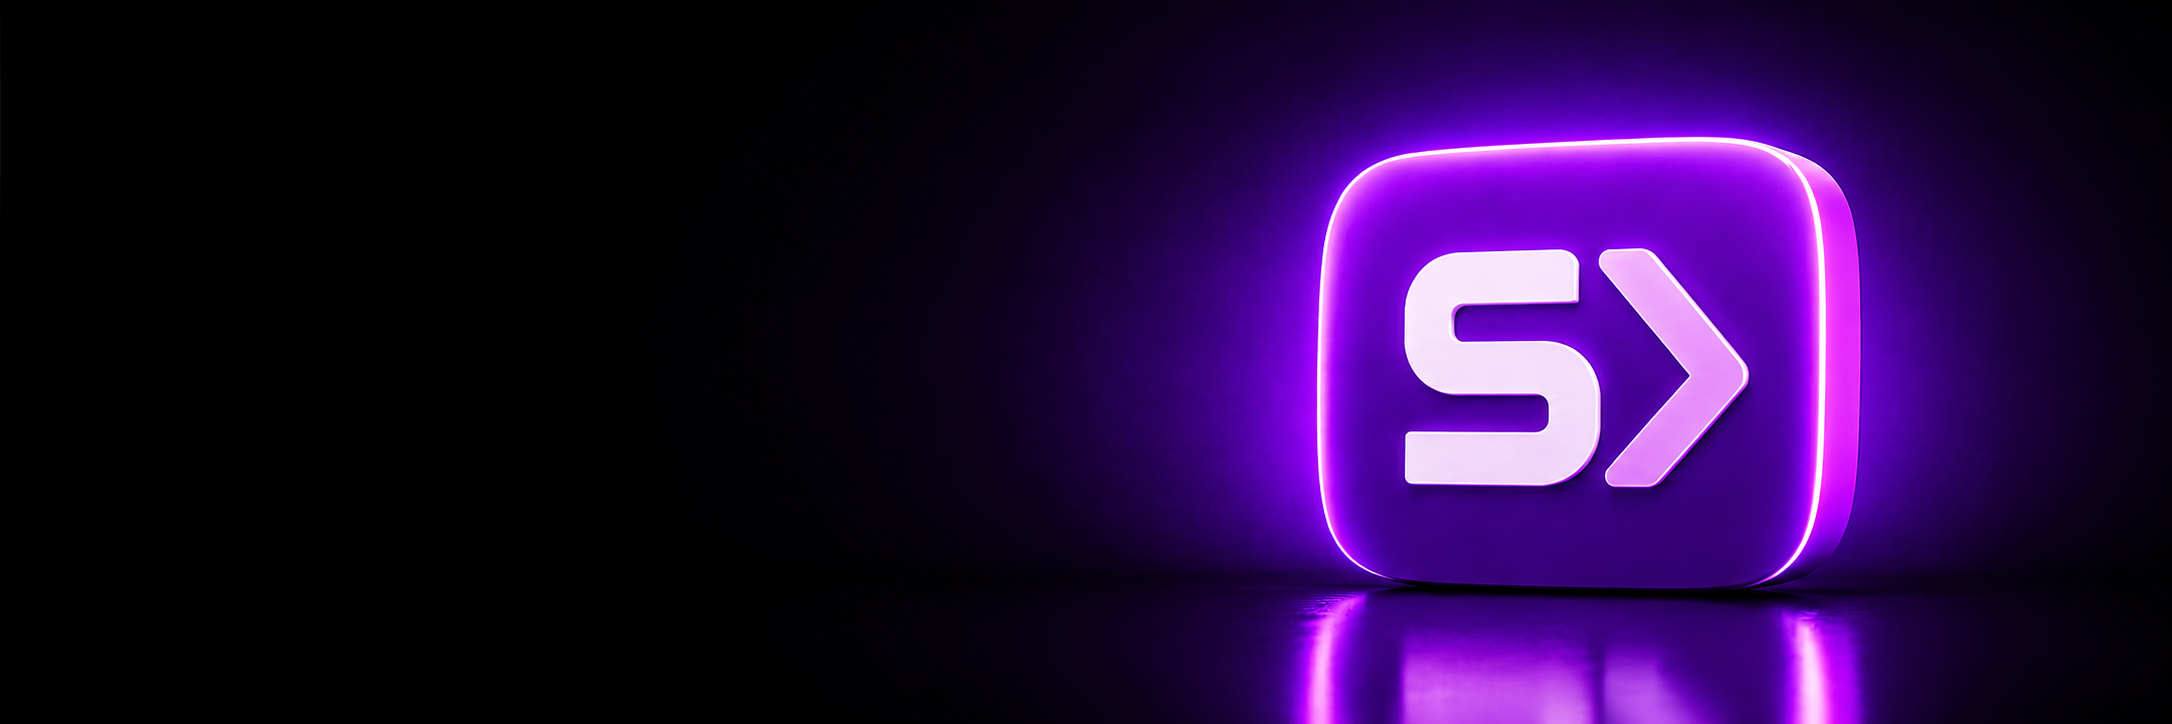
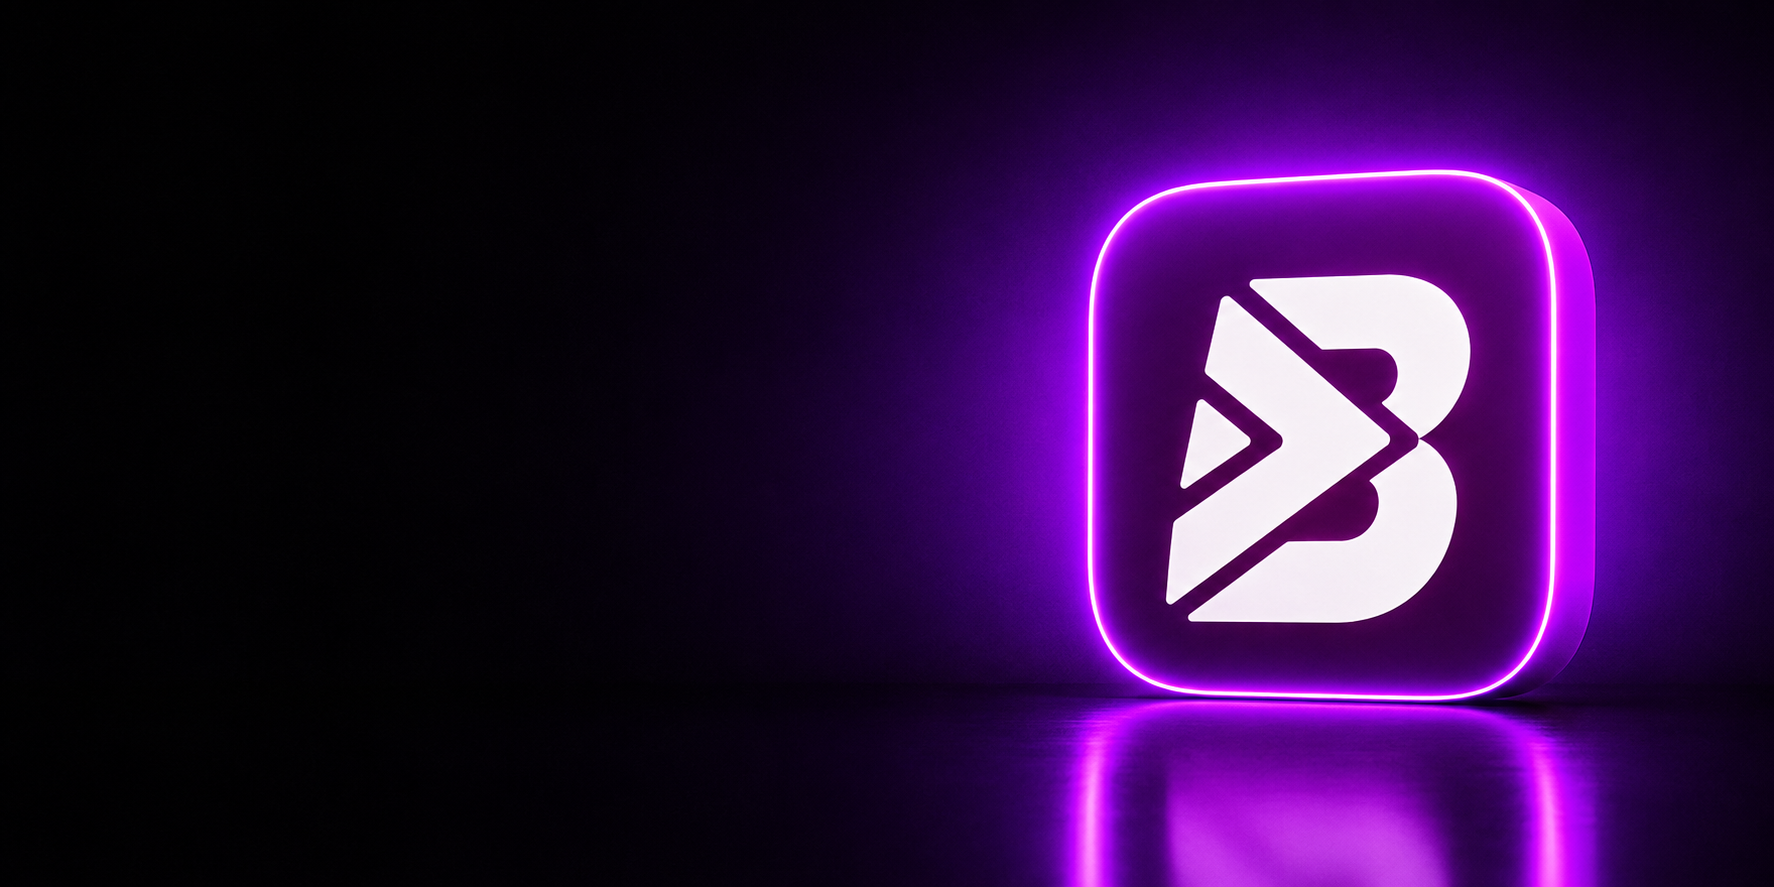
Add Telegram and Instagram buttons, update BateuBet platform link/image

diff --git a/index.html b/index.html
@@ -16,13 +16,13 @@
     <div class="profile">
       <h1 class="name">Prazer, Henrique Carvalho</h1>
       <p class="handle">@HPZERA_EXPERT <span class="verified" title="Verificado">✔</span></p>
-      <a href="https://instagram.com/hpzera_expert" target="_blank" rel="noopener noreferrer" class="ig-link">@hpzera_expert</a>
+      <a href="https://www.instagram.com/hpzera.oficial" target="_blank" rel="noopener noreferrer" class="ig-link">@hpzera.oficial</a>
       <p class="bio">O <strong>amador</strong> joga. O <strong>profissional</strong> executa.<br>Escolha sua rota abaixo:</p>
     </div>
 
     <nav class="links">
 
-      <a href="https://go.aff.start.bet.br/css2hjfd" target="_blank" rel="noopener noreferrer" class="btn btn--neon-purple">
+      <a href="https://portalhpzera.com.br/cadastro" target="_blank" rel="noopener noreferrer" class="btn btn--neon-purple">
         <img src="artes/Plataforma.png" alt="" class="btn__bg">
         <span class="btn__overlay">
           <span class="btn__left">
@@ -53,6 +53,23 @@
         </span>
       </a>
 
+      <a href="https://t.me/HpzeraOficial" target="_blank" rel="noopener noreferrer" class="btn btn--telegram">
+        <img src="artes/Telegram.png" alt="" class="btn__bg">
+        <span class="btn__overlay">
+          <span class="btn__left">
+            <svg class="btn__icon-wrap btn__icon-wrap--svg" viewBox="0 0 24 24" fill="none" xmlns="http://www.w3.org/2000/svg">
+              <circle cx="12" cy="12" r="10" fill="#229ED9"/>
+              <path d="M17.404 7.05 15.61 16.3c-.135.6-.49.746-.994.464l-2.746-2.024-1.325 1.276c-.147.147-.27.27-.552.27l.197-2.79 5.08-4.59c.221-.196-.048-.306-.343-.11l-6.28 3.955-2.705-.845c-.588-.184-.6-.588.123-.87l10.573-4.075c.49-.184.918.11.76.87z" fill="white"/>
+            </svg>
+            <span class="btn__text">
+              <span class="btn__title">CANAL DO TELEGRAM</span>
+              <span class="btn__sub">Entre para o canal exclusivo.</span>
+            </span>
+          </span>
+          <span class="btn__arrow">→</span>
+        </span>
+      </a>
+
       <a href="https://www.youtube.com/@HPZERAEXPERT" target="_blank" rel="noopener noreferrer" class="btn btn--youtube">
         <img src="artes/Youtube.png" alt="" class="btn__bg">
         <span class="btn__overlay">
@@ -61,6 +78,33 @@
             <span class="btn__text">
               <span class="btn__title">INSCREVA-SE NO YOUTUBE</span>
               <span class="btn__sub">Aulas, operações e visão de mesa.</span>
+            </span>
+          </span>
+          <span class="btn__arrow">→</span>
+        </span>
+      </a>
+
+      <a href="https://www.instagram.com/hpzera.oficial" target="_blank" rel="noopener noreferrer" class="btn btn--instagram">
+        <img src="artes/Instagram.png" alt="" class="btn__bg">
+        <span class="btn__overlay">
+          <span class="btn__left">
+            <svg class="btn__icon-wrap btn__icon-wrap--svg" viewBox="0 0 24 24" fill="none" xmlns="http://www.w3.org/2000/svg">
+              <defs>
+                <linearGradient id="igGrad" x1="0" y1="24" x2="24" y2="0" gradientUnits="userSpaceOnUse">
+                  <stop offset="0" stop-color="#f09433"/>
+                  <stop offset="0.25" stop-color="#e6683c"/>
+                  <stop offset="0.5" stop-color="#dc2743"/>
+                  <stop offset="0.75" stop-color="#cc2366"/>
+                  <stop offset="1" stop-color="#bc1888"/>
+                </linearGradient>
+              </defs>
+              <rect x="2" y="2" width="20" height="20" rx="6" stroke="url(#igGrad)" stroke-width="2"/>
+              <circle cx="12" cy="12" r="5" stroke="url(#igGrad)" stroke-width="2"/>
+              <circle cx="17.5" cy="6.5" r="1.2" fill="url(#igGrad)"/>
+            </svg>
+            <span class="btn__text">
+              <span class="btn__title">SIGA NO INSTAGRAM</span>
+              <span class="btn__sub">Bastidores e conteúdos diários.</span>
             </span>
           </span>
           <span class="btn__arrow">→</span>
@@ -84,7 +128,7 @@
     </section>
 
     <footer class="footer">
-      © 2026 · <a href="https://instagram.com/hpzera_expert" target="_blank" rel="noopener noreferrer">@hpzera_expert</a>
+      © 2026 · <a href="https://www.instagram.com/hpzera.oficial" target="_blank" rel="noopener noreferrer">@hpzera.oficial</a>
     </footer>
 
   </div>

diff --git a/styles.css b/styles.css
@@ -291,6 +291,22 @@ html, body {
   box-shadow: 0 0 14px rgba(220,38,38,0.85), 0 0 36px rgba(220,38,38,0.45), 0 10px 28px rgba(0,0,0,0.6);
 }
 
+.btn--telegram {
+  border: 1.5px solid rgba(34,158,217,0.85);
+  box-shadow: 0 0 8px rgba(34,158,217,0.65), 0 0 22px rgba(34,158,217,0.3), inset 0 0 10px rgba(34,158,217,0.08);
+}
+.btn--telegram:hover {
+  box-shadow: 0 0 14px rgba(34,158,217,0.95), 0 0 36px rgba(34,158,217,0.5), 0 10px 28px rgba(0,0,0,0.6);
+}
+
+.btn--instagram {
+  border: 1.5px solid rgba(220,39,67,0.75);
+  box-shadow: 0 0 8px rgba(220,39,67,0.55), 0 0 22px rgba(188,24,136,0.35), inset 0 0 10px rgba(240,148,51,0.08);
+}
+.btn--instagram:hover {
+  box-shadow: 0 0 14px rgba(220,39,67,0.9), 0 0 36px rgba(188,24,136,0.55), 0 10px 28px rgba(0,0,0,0.6);
+}
+
 .btn__icon-wrap--yt {
   font-size: 1.7rem;
   color: #ff4444;
